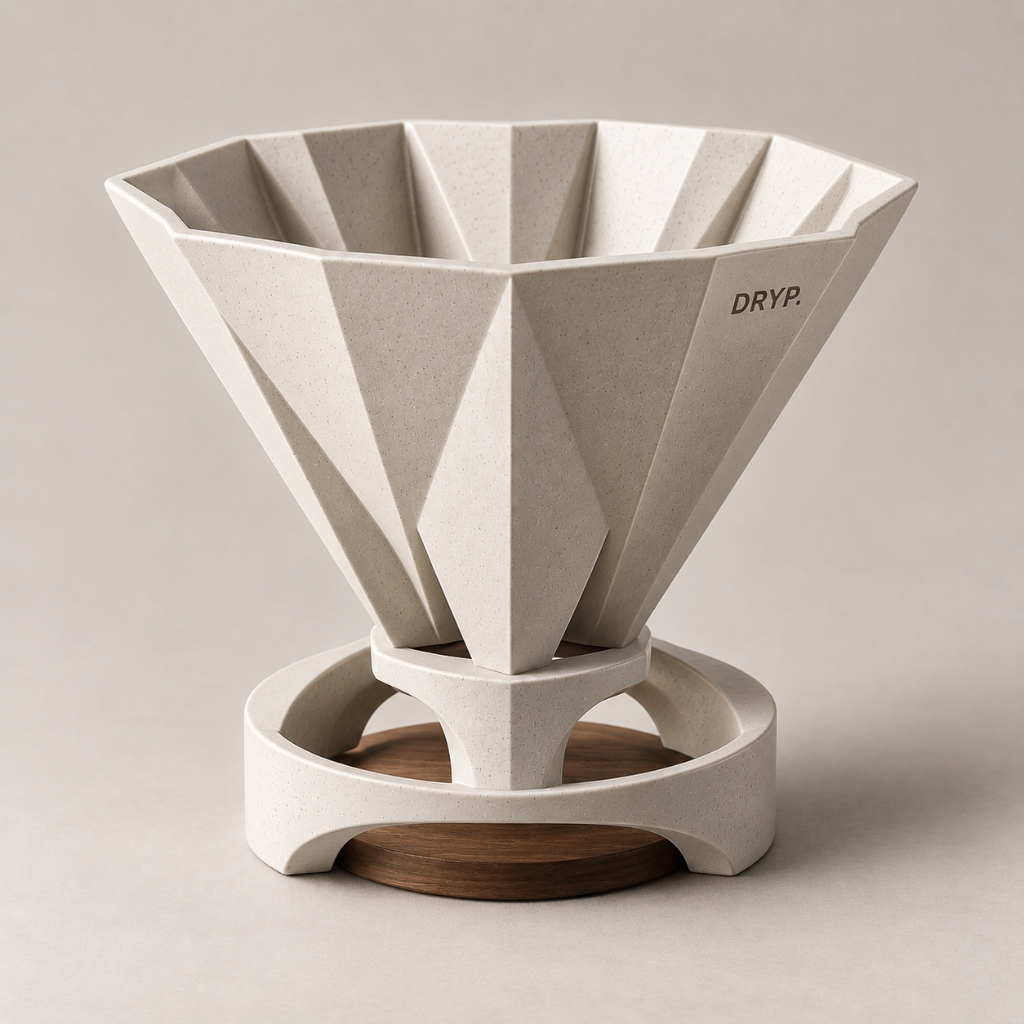
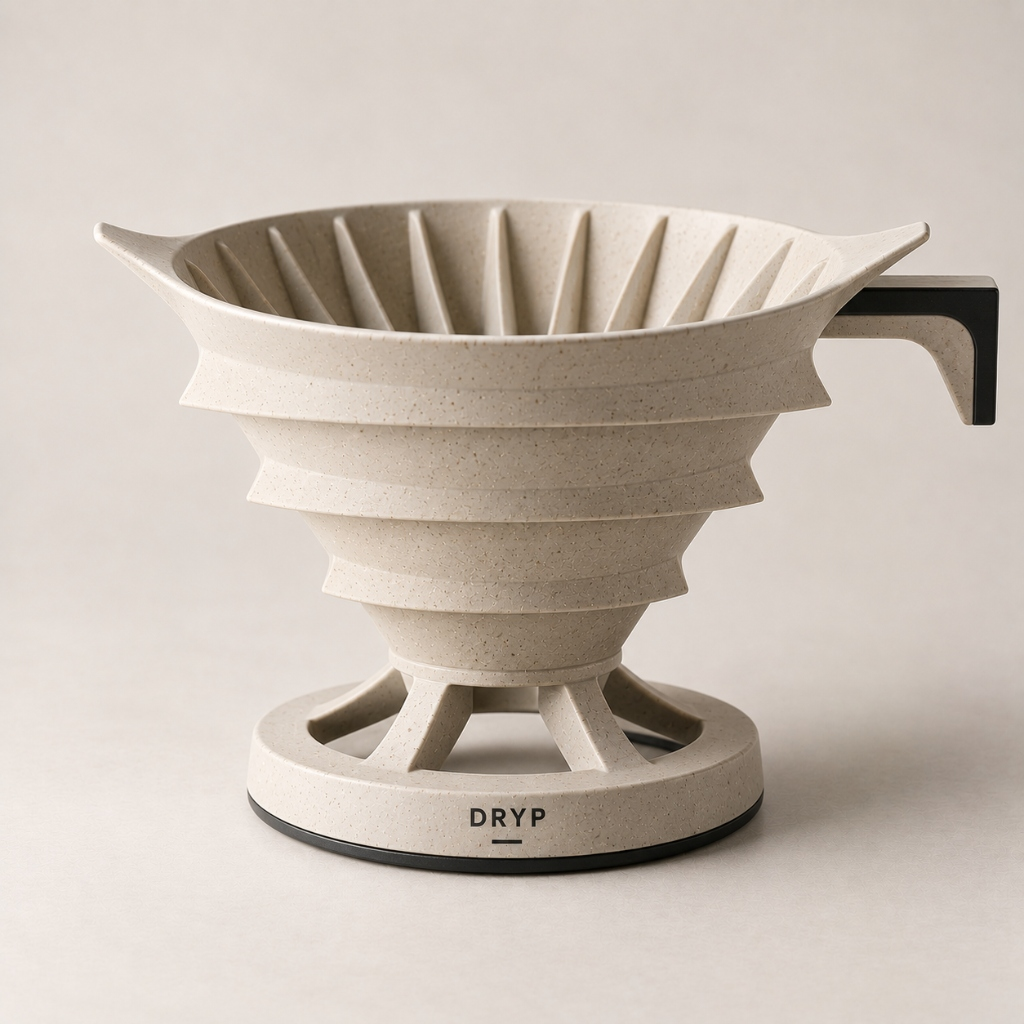
fix: replace Origami dripper with Japanese Pagoda Architecture ceramic render and copy

Changed region(s): [[0.0312, 0.0625, 1.0, 0.9062], [0.1562, 0.0312, 0.25, 0.0938], [0.5938, 0.0, 0.6562, 0.0312]]

diff --git a/dripper-app/src/i18n/localizedData.ts b/dripper-app/src/i18n/localizedData.ts
@@ -923,26 +923,26 @@ export const LOCALIZED_PRODUCTS: Record<Language, Product[]> = {
       categoryTag: 'Editions',
       dropCode: 'ARCH 02',
       eyebrow: 'ARCH 02',
-      name: 'Origami Fold',
-      headline: 'The silence of a perfect fold: geometry that honors water.',
-      story: 'Speckled white sand stoneware with angular faceted panels inspired by Japanese origami. Twelve planar folds converge at the base, resting on a turned solid walnut disc.',
-      objectDescription: 'High-fire speckled stoneware with a matte raw finish. The faceted exterior creates micro air channels that regulate thermal retention, while the walnut base provides visual warmth and counter stability.',
+      name: 'Pagoda Eaves — Kyoto',
+      headline: 'Tiered architectural roofs taming water into mindful extraction.',
+      story: 'Speckled sand-beige stoneware dripper directly drawing from the stepped rooflines of classical Kyoto pagodas. Features cascading cantilevered ceramic eaves, dual spouts, an ebony-black geometric handle, and an open timber-framed Torii-inspired base stamped with DRYP.',
+      objectDescription: 'Vertical internal flutes emulate classical Japanese wooden beam joinery, promoting balanced airflow and an even drawdown that coaxes gentle sweetness and low acidity from light to medium roasts.',
       price: 94,
       currency: 'USD',
       stockStatus: 'available',
-      stockLabel: 'Available • Origami Edition',
+      stockLabel: 'Available • Kyoto Edition',
       stockCountRemaining: 22,
       paletteColors: [
-        { name: 'Speckled Sand White', hex: '#E6E2D9' },
-        { name: 'Walnut Brown', hex: '#6B4226' }
+        { name: 'Kyoto Sandstone Beige', hex: '#DDD8CE' },
+        { name: 'Charred Ebony Black', hex: '#1C1B1A' }
       ],
       specs: {
         extractionStyle: 'Soft, rounded body with gentle sweetness and low acidity',
         flowRate: 'Slow-medium even drawdown',
         capacity: '1–2 Cups (15g–28g dose)',
         filterType: 'Standard 02 Conical filters',
-        material: 'High-fire speckled stoneware with solid walnut base',
-        origin: 'Atelier Bauhaus • Cumbres de Neblaria',
+        material: 'High-fire speckled stoneware with Torii-framed base',
+        origin: 'Architecture Unit • Cumbres de Neblaria',
         weight: '380g',
         idealRecipe: {
           dose: '17g',
@@ -953,7 +953,7 @@ export const LOCALIZED_PRODUCTS: Record<Language, Product[]> = {
           grindSize: 'Medium-coarse'
         }
       },
-      tagline: 'Twelve folds. One perfect pour.',
+      tagline: 'Stepped pagoda eaves. One mindful morning pour.',
       visualType: 'brutalist'
     },
     {
@@ -1990,26 +1990,26 @@ export const LOCALIZED_PRODUCTS: Record<Language, Product[]> = {
       categoryTag: 'Editions',
       dropCode: 'ARCH 02',
       eyebrow: 'ARQUITECTURA 02',
-      name: 'Origami Fold',
-      headline: 'El silencio de un pliegue perfecto: geometría que honra el agua.',
-      story: 'Cono de gres moteado blanco arena con paneles facetados angulares inspirados en el origami japonés. Doce planos convergentes en la base, apoyados sobre un disco de nogal macizo torneado a mano.',
-      objectDescription: 'Gres de alta temperatura con acabado mate crudo. El exterior facetado genera microcanales de aire que regulan la retención térmica, mientras la base de nogal aporta calidez visual y estabilidad sobre la barra.',
+      name: 'Pagoda Eaves — Kioto',
+      headline: 'Aleros arquitectónicos escalonados que guían el agua con serenidad zen.',
+      story: 'Gotero cerámico de gres arena moteado inspirado en los aleros voladizos de las pagodas clásicas de Kioto. Cuenta con techumbre cerámica escalonada, doble pico vertedor, asa geométrica en ébano negro y una peana calada en pilares estilo Torii con sello DRYP.',
+      objectDescription: 'Nervaduras interiores verticales que emulan la carpintería tradicional de vigas japonesas, permitiendo una desgasificación uniforme y un drenaje continuo que resalta la dulzura delicada y baja acidez del café.',
       price: 94,
       currency: 'USD',
       stockStatus: 'available',
-      stockLabel: 'Disponible • Edición Origami',
+      stockLabel: 'Disponible • Edición Kioto',
       stockCountRemaining: 22,
       paletteColors: [
-        { name: 'Blanco Arena Moteado', hex: '#E6E2D9' },
-        { name: 'Nogal Oscuro', hex: '#6B4226' }
+        { name: 'Gres Arena Kioto', hex: '#DDD8CE' },
+        { name: 'Ébano Negro Quemado', hex: '#1C1B1A' }
       ],
       specs: {
         extractionStyle: 'Cuerpo suave y redondo con dulzura delicada y baja acidez',
         flowRate: 'Lento-medio, drenaje uniforme',
         capacity: '1–2 Tazas (dosis 15g–28g)',
         filterType: 'Filtros cónicos estándar 02',
-        material: 'Gres moteado de alta temperatura con base de nogal macizo',
-        origin: 'Atelier Bauhaus • Cumbres de Neblaria',
+        material: 'Gres moteado de alta temperatura con base calada estilo Torii',
+        origin: 'Unidad de Arquitectura • Cumbres de Neblaria',
         weight: '380g',
         idealRecipe: {
           dose: '17g',
@@ -2020,7 +2020,7 @@ export const LOCALIZED_PRODUCTS: Record<Language, Product[]> = {
           grindSize: 'Media-gruesa'
         }
       },
-      tagline: 'Doce pliegues. Un vertido perfecto.',
+      tagline: 'Aleros de pagoda escalonados. Un vertido consciente cada mañana.',
       visualType: 'brutalist'
     },
     {

diff --git a/dripper-app/src/data/pinterestPinsData.ts b/dripper-app/src/data/pinterestPinsData.ts
@@ -542,8 +542,8 @@ export const DRYP_DRIPS: DrypDrip[] = [
   {
     id: 'drip-arch-origami',
     productId: 'arch-origami-fold',
-    title: '22 / Origami Fold',
-    subtitle: 'Gres moteado blanco arena con facetas plegadas inspiradas en el origami japonés. Base de nogal macizo. Geometría que honra el agua.',
+    title: '22 / Pagoda Eaves — Kioto',
+    subtitle: 'Gres arena moteado con aleros superpuestos inspirados en las pagodas de Kioto, asa geométrica en ébano y base calada en pilares Torii con sello DRYP.',
     category: 'Architecture',
     categoryLabel: 'Arquitectura',
     imageSrc: '/images/products/arch-origami.jpg',
@@ -556,14 +556,14 @@ export const DRYP_DRIPS: DrypDrip[] = [
     },
     price: 94,
     stockStatus: 'available',
-    stockLabel: 'Disponible (Edición Origami)',
-    likesCount: 3290,
-    savesCount: 8140,
+    stockLabel: 'Disponible (Edición Kioto)',
+    likesCount: 3820,
+    savesCount: 9450,
     boardIds: ['board-architecture'],
-    tags: ['Arquitectura', 'Origami', 'Japón', 'Facetado', 'Nogal', 'Gres Blanco', 'Geometría'],
-    badge: 'ORIGAMI FOLD',
+    tags: ['Arquitectura', 'Japón', 'Pagoda', 'Kioto', 'Aleros', 'Torii', 'Gres Moteado', 'Geometría'],
+    badge: 'PAGODA KIOTO',
     dropCode: 'ARCH 02',
-    level01Emotion: 'El silencio de un pliegue perfecto: cada faceta dirige el agua como los ángulos de un tejado japonés guían la lluvia.'
+    level01Emotion: 'La calma milenaria de los templos de madera de Kioto: aleros escalonados que guían el agua con serenidad zen.'
   },
 
   // ── EXPERIMENTAL (1 drip único) ──────────────────────────────────────────
